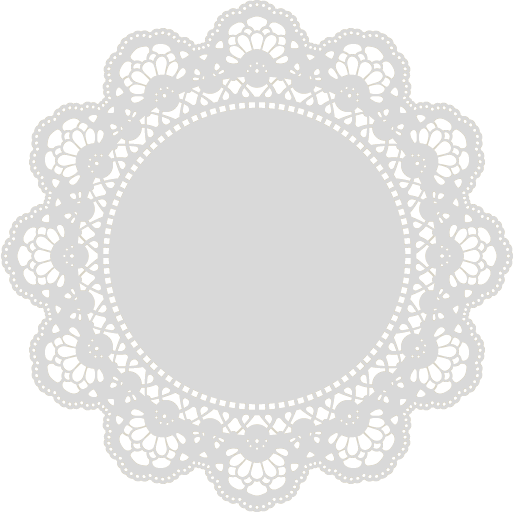
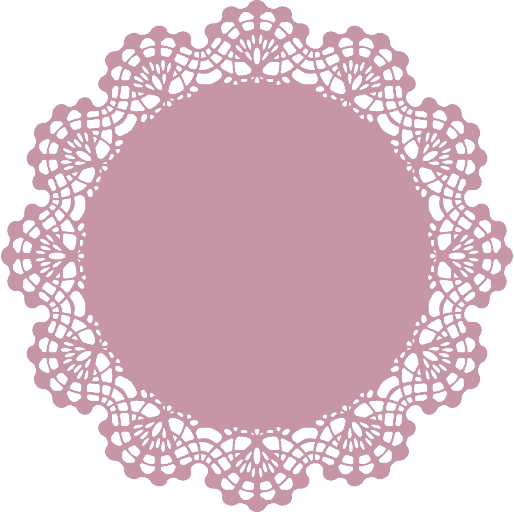
[Update]aboutページのレイアウトを作成中

diff --git a/app/javascript/stylesheets/application.scss b/app/javascript/stylesheets/application.scss
@@ -1,2 +1,92 @@
 @import '~bootstrap/scss/bootstrap';
 @import '~@fortawesome/fontawesome-free/scss/fontawesome';
+
+  // .field {
+  //   position: relative;
+  //   margin: 50px auto;
+  //   background-image: url("<%= asset_path('lace_pink.png') %>");
+  //   width: 50vw;
+  //   height: 650px;
+  //   /*width: 650px;*/
+  //   background-size: cover;
+  // }
+
+  // .text {
+  //   display: inline-block;
+  //   text-align: left;
+  //   position: absolute;
+  //   top: 0;
+  //   right: 0;
+  //   bottom: 0;
+  //   left: 0;
+  //   margin: auto;
+  //   /*width: 415px;*/
+  //   /*height: 165px;*/
+  //   text-align: center;
+  //   height: 100vh;
+  //   padding-top: 31vh;
+  // }
+
+  // // p > img {
+  // //   width: 100%;
+  // // }
+
+  // .material1, .material2, .material3, .material4, .material5 {
+  //   position: absolute;
+  // }
+
+  // .material1 {
+  //   width: 250px;
+  //   height: 250px;
+  //   right: -80px;
+  //   bottom: 0px;
+  //   img{
+  //     width: 100%;
+  //   }
+    
+  // }
+
+  // .material2 {
+  //   width: 409px;
+  //   height: 231px;
+  //   top: -70px;
+  //   left: -300px;
+  //   img{
+  //     width: 100%;
+  //   }
+  // }
+
+  // .material3 {
+  //   width: 120px;
+  //   height: 120px;
+  //   top: 60px;
+  //   left: -280px;
+  //   img{
+  //     width: 100%;
+  //   }
+  // }
+
+  // .material4 {
+  //   width: 200px;
+  //   height: 200px;
+  //   left: -230px;
+  //   bottom: 80px;
+  //   img{
+  //     width: 100%;
+  //   }
+  // }
+
+  // .material5 {
+  //   width: 200px;
+  //   height: 200px;
+  //     top: 120px;
+  //     right: -250px;
+  //   img{
+  //     width: 100%;
+  //   }
+  // }
+
+  // /* 1200px以下の際に適用される設定 */
+  // @media screen and (max-width:1200px) {
+
+  // }
